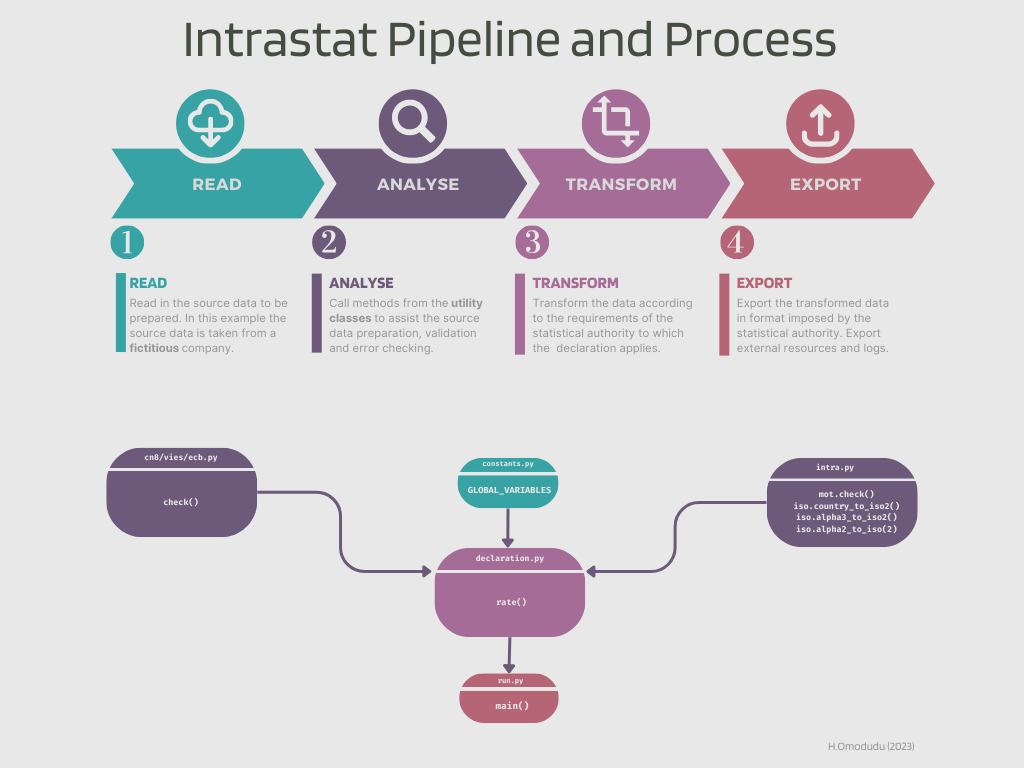
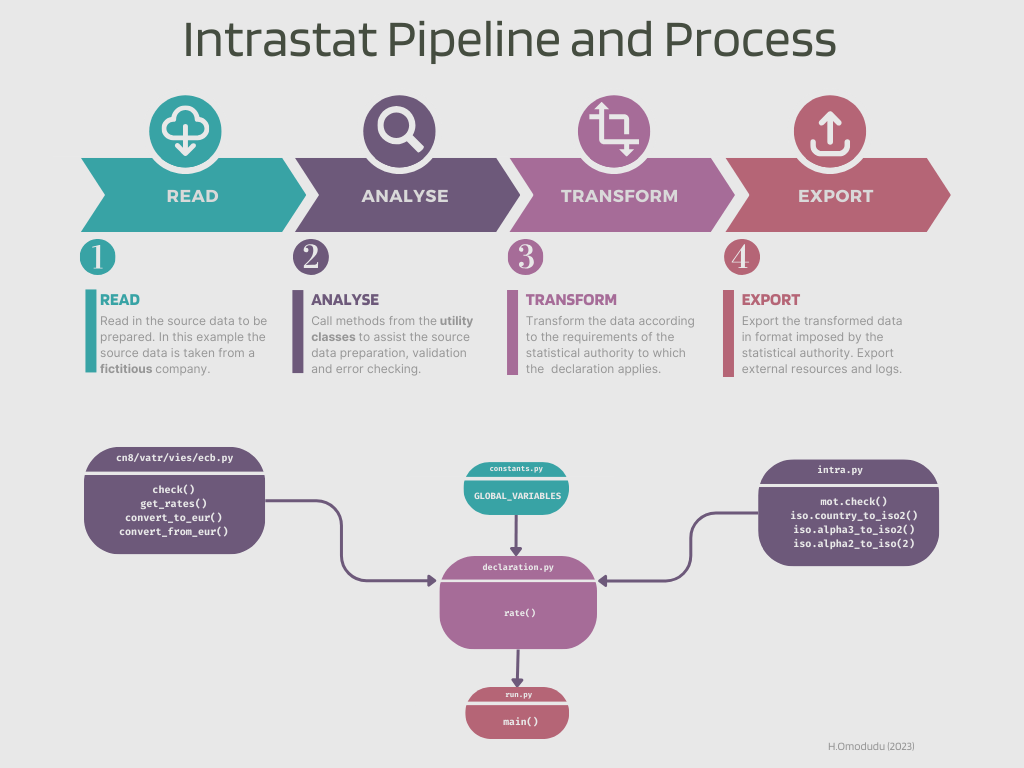
Updated process flow.

Changed region(s): [[0.0625, 0.0938, 0.9375, 0.5], [0.3125, 0.5938, 0.9375, 0.9688], [0.0625, 0.5625, 0.3438, 0.7188]]

diff --git a/intrastat/_v2/intra.py b/intrastat/_v2/intra.py
@@ -1,12 +1,9 @@
 """
-Intrastat utility class module.
+Intrastat utility module.
 """
 import pandas as pd # Data analysis package.
 import requests # API request handling module.
 import json # Json parsing module.
-
-API_URL = 'https://restcountries.com/v3.1/all'
-COLUMNS_RESP = ["common","official", "cca2", "cca3","continents"]
 
 class mot():
     """
@@ -30,77 +27,6 @@ class mot():
         df = pd.merge(df, df_mot, left_on=column_name, right_on='Type', how='left')
         df.drop('Type', axis=1, inplace=True)
         return df
-
-class iso():
-    """
-    Class that contains functions to check country code.
-    """
-    def __init__(self):
-        """
-        Constructor (initialise attributes) for class.
-        """
-        pass
-
-    def _api_request(self):
-        """
-        Request ISO code API response\n
-        GB is defined as ISO code XU for intrastat purposes.
-        """
-        # Send API request.
-        response_API = requests.get(API_URL)
-        json_file = json.loads(response_API.text)
-        data = pd.DataFrame.from_dict(json_file)
-
-        # Transform response and store in lookup table.
-        data['common'] = [x['common'] for x in data['name']]
-        data['official'] = [x['official'] for x in data['name']]
-        df = pd.DataFrame(data,columns=COLUMNS_RESP)
-        df['continents'] = [x[0] for x in df['continents']]
-        df['cca2'] = df['cca2'].replace('GB','XU')
-        return df
-
-    def country_to_iso2(self, df, column_name):
-        """
-        Translate country name to ISO-2 equivalent. Append result.\n
-        df: The data frame containing a country column.
-        column_name: The column containing the country name to be analysed.
-        """
-        # Retrieve country code lookup table.
-        df_out = self._api_request()[['common','cca2']]
-        df_out = pd.merge(df, df_out, left_on=column_name, right_on='common', how='left')
-        df_out.drop('common', axis=1, inplace=True)
-        df_out = df_out.rename(columns={'cca2': 'ISO2'})
-        return df_out
-
-    def alpha3_to_iso2(self, df, column_name):
-        """
-        Translate alpha3 country code to ISO-2 equivalent. Append result.\n
-        df: The data frame containing a country code.
-        column_name: The column containing the country code to be analysed.
-        """
-        # Retrieve country code lookup table.
-        df_out = self._api_request()[['cca3','cca2']]
-        # Match by key column. Return original and value columns only.
-        df_out = pd.merge(df, df_out, left_on=column_name, right_on='cca3', how='left')
-        df_out.drop('cca3', axis=1, inplace=True)
-        df_out = df_out.rename(columns={'cca2': 'ISO2'})
-        return df_out
-
-    def alpha2_to_iso2(self, df, column_name):
-        """
-        Translate alpha2 country code to ISO-2 equivalent. Append result.\n
-        df: The data frame containing a country code.
-        column_name: The column containing the country code to be analysed.\n
-        GB does not adopt ISO standard and defined as XU for intrastat purposes.
-        """
-        # Translate GB intrastat code manually. Does not adopt ISO standard.
-        df[column_name] = df[column_name].replace(regex="UK|GB", value='XU')
-        # Retrieve country code lookup table.
-        df_out = self._api_request()['cca2']
-        # Match by key column. Return original and value columns only.
-        df_out = pd.merge(df, df_out, left_on=column_name, right_on='cca2', how='left')
-        df_out = df_out.rename(columns={'cca2': 'ISO2'})
-        return df_out
 
 def main():
     pass
